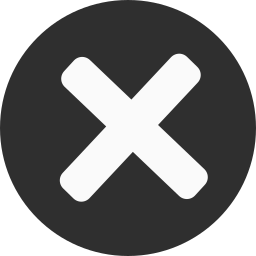
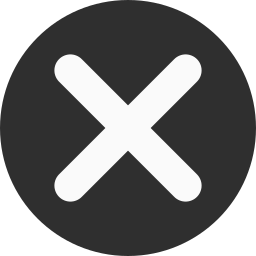
Add graphics for new buttons

diff --git a/www/css/kate-v2.css b/www/css/kate-v2.css
@@ -299,6 +299,7 @@ body {
   position: absolute;
   translate: 0px 0px;
   transform-origin: top left;
+  box-shadow: 0px -1px 2px rgba(0, 0, 0, 0.25);
 }
 
 .kc-shoulder-left .kc-shoulder-button {
@@ -389,39 +390,61 @@ body {
 .kc-button {
   width: 75px;
   height: 75px;
-  background: var(--blue);
   border-radius: 100%;
-  display: flex;
-  justify-content: center;
   font-size: 45px;
   line-height: 70px;
-  box-shadow: 1px 1px 1px #fff, inset 1px 1px 1px rgba(0, 0, 0, 0.2);
-  font-family: "Roboto Mono";
   color: transparent;
-  text-shadow: 0 0 0 #fafafa;
-}
-
-.kc-button.down {
-  background: #9af;
+  background-position: center center;
+  background-size: contain;
+  background-repeat: no-repeat;
 }
 
 .kc-small-button {
   width: 45px;
   height: 45px;
-  background: var(--grey);
   border-radius: 100%;
-  display: flex;
-  justify-content: center;
   font-size: 20px;
   line-height: 45px;
-  box-shadow: 1px 1px 1px #fff, inset 1px 1px 1px rgba(0, 0, 0, 0.2);
-  font-family: "Roboto Mono";
   color: transparent;
-  text-shadow: 0 0 0 #2f2f2f;
+  background-color: #f7f1d8;
+  background-position: center center;
+  background-size: 80%;
+  background-repeat: no-repeat;
 }
 
+.kc-button,
+.kc-small-button {
+  box-shadow: inset 1px 1px 1px #fff, 1px 1px 1px rgba(0, 0, 0, 0.2);
+}
+
+.kc-button.down,
 .kc-small-button.down {
-  background: #fafafa;
+  filter: brightness(75%);
+  box-shadow: 1px 1px 1px #fff, inset 1px 1px 1px rgba(0, 0, 0, 0.2);
+}
+
+.kc-berry {
+  background-image: url("../img/buttons/berry.png");
+}
+
+.kc-capture {
+  background-image: url("../img/buttons/capture.png");
+}
+
+.kc-menu {
+  background-image: url("../img/buttons/menu.png");
+}
+
+.kc-ok {
+  background-image: url("../img/buttons/ok.png");
+}
+
+.kc-cancel {
+  background-image: url("../img/buttons/cancel.png");
+}
+
+.kc-sparkle {
+  background-image: url("../img/buttons/sparkle.png");
 }
 
 /* tv mode */

diff --git a/www/index.html b/www/index.html
@@ -43,15 +43,15 @@
         </div>
 
         <div class="kc-special kc-virtual">
-          <div class="kc-small-button kc-berry">🍑</div>
-          <div class="kc-small-button kc-capture">🔴</div>
+          <div class="kc-small-button kc-berry"></div>
+          <div class="kc-small-button kc-capture"></div>
         </div>
 
         <div class="kc-faces kc-virtual">
-          <div class="kc-button kc-ok">⭕</div>
-          <div class="kc-button kc-cancel">❌</div>
-          <div class="kc-button kc-sparkle">✨</div>
-          <div class="kc-small-button kc-menu" style="margin-top: 5px">🟰</div>
+          <div class="kc-button kc-ok"></div>
+          <div class="kc-button kc-cancel"></div>
+          <div class="kc-button kc-sparkle"></div>
+          <div class="kc-small-button kc-menu" style="margin-top: 5px"></div>
         </div>
 
         <div id="kate-version"></div>
